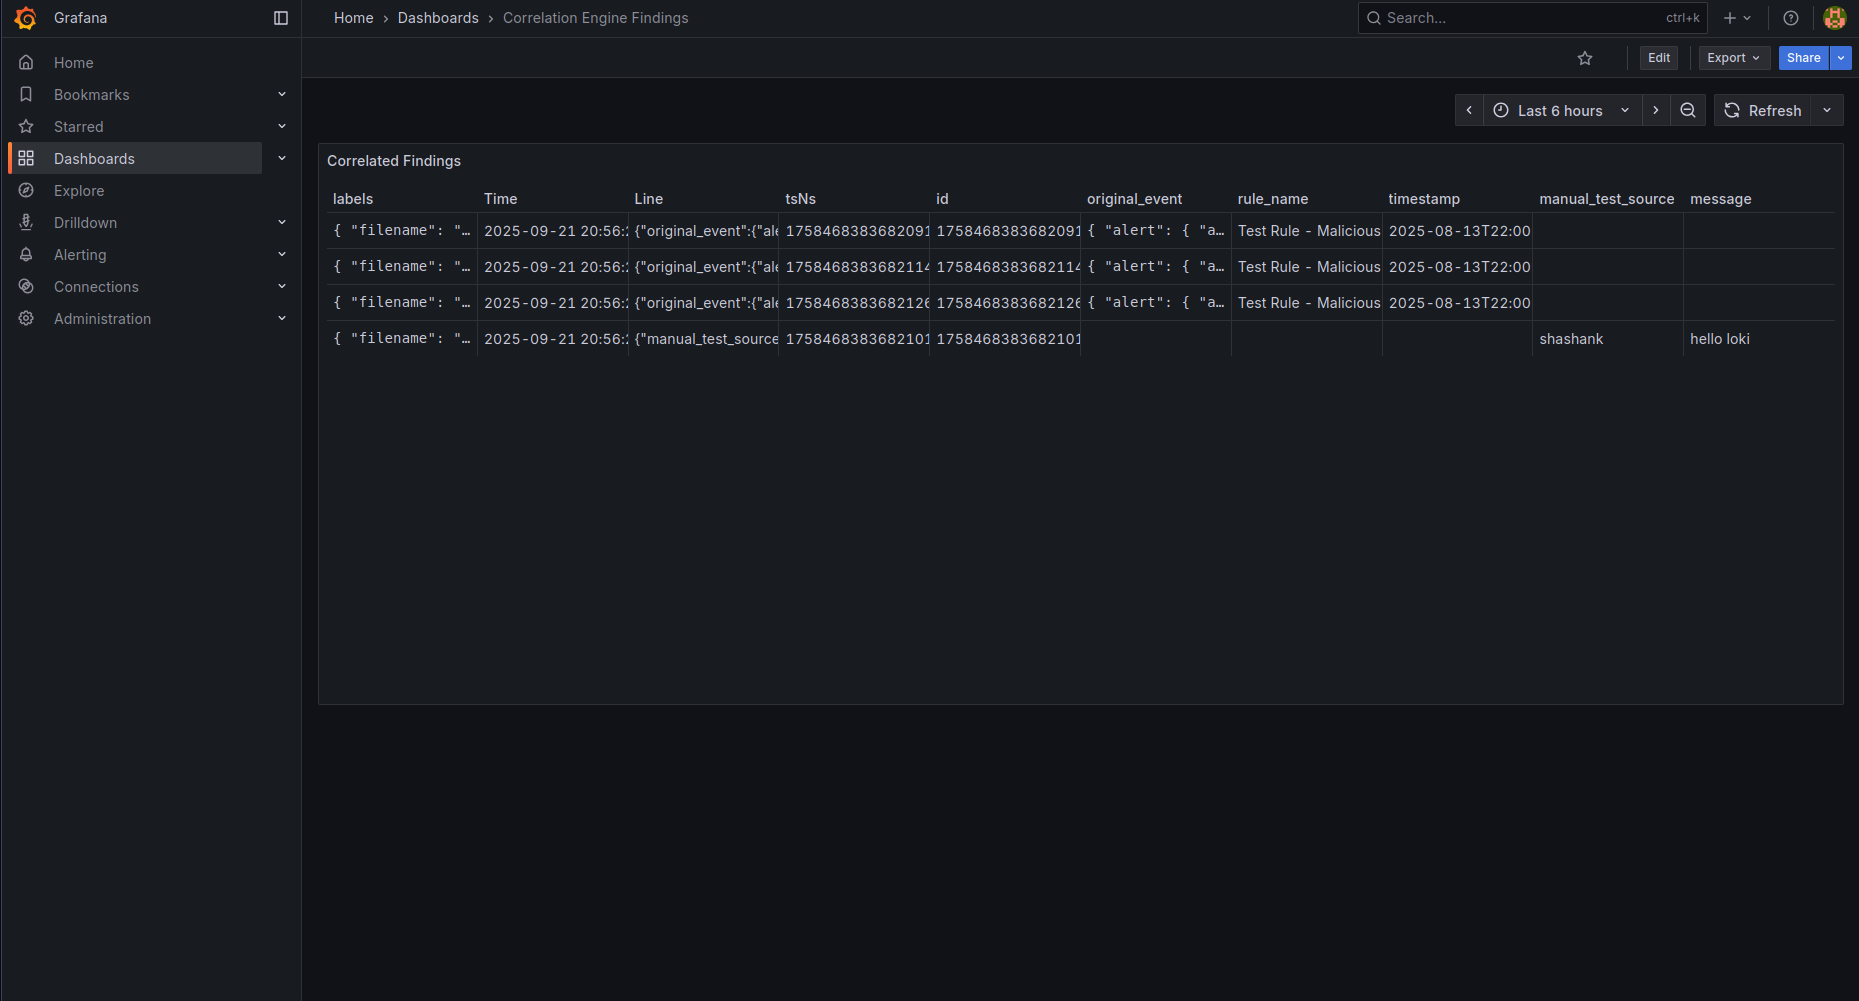
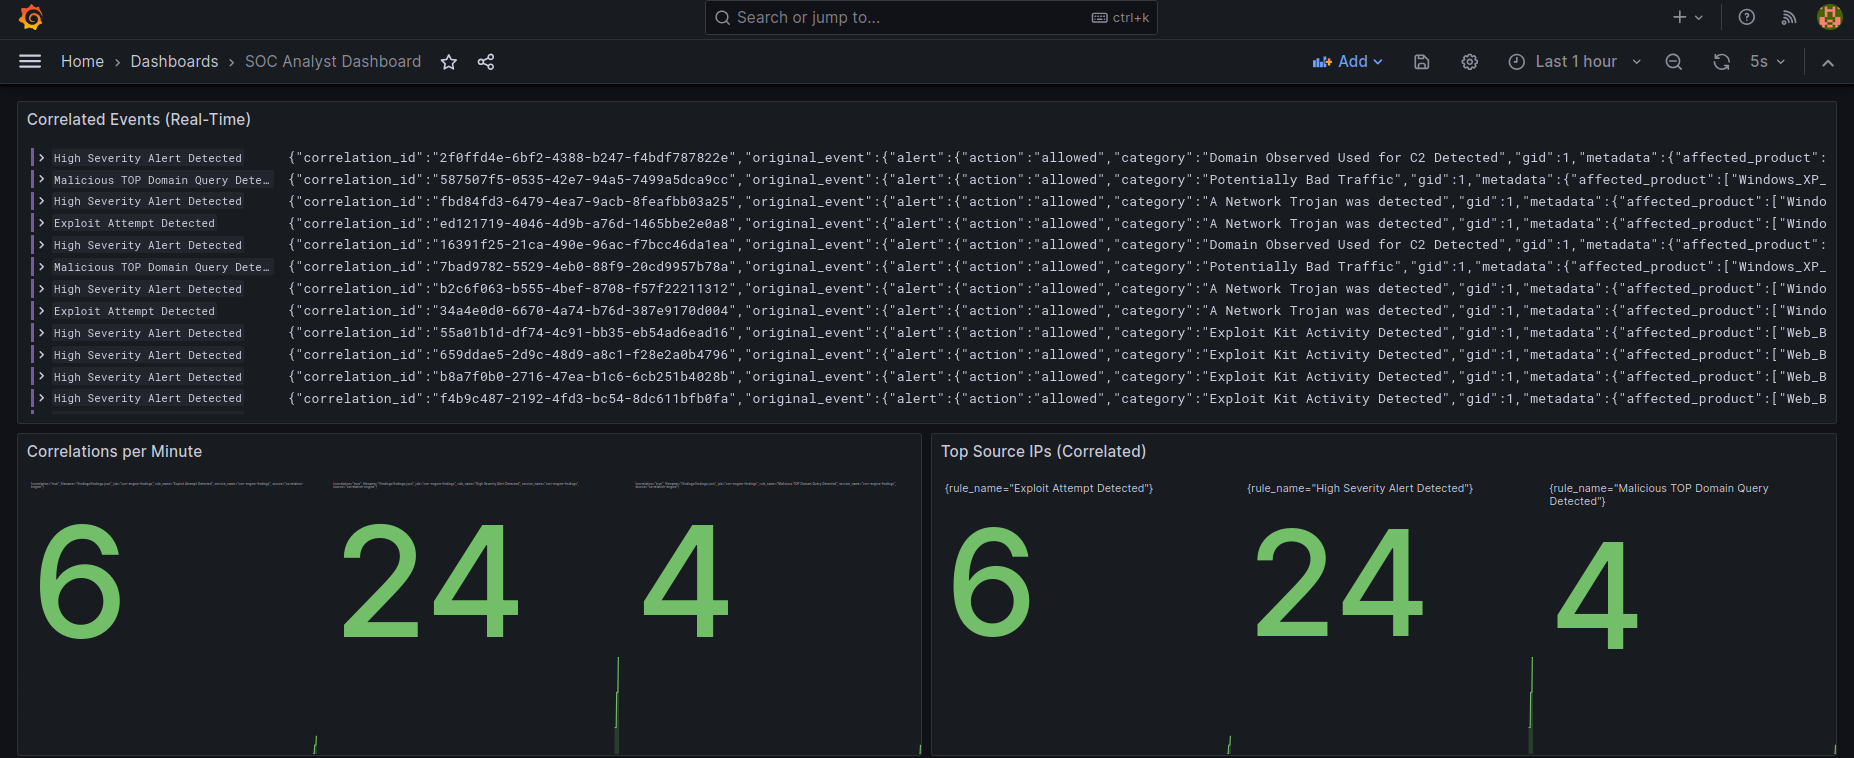
Update: Added new dashboard screenshots.

diff --git a/readme.md b/readme.md
@@ -17,11 +17,13 @@ All findings are centralized in **Grafana** via **Loki**, providing instant visi
 <details>
   <summary>Click to view dashboard screenshots</summary>
   <p align="center">
-    <em>Main Dashboard Overview</em><br>
-    <img src="screenshots/S1.png" alt="Main Dashboard">
+    <em>SOC Analyst Dashboard Overview</em><br>
+    <img src="screenshots/S1.png" alt="Default Dashboard">
     <br><br>
-    <em>Correlated Findings Timeline</em><br>
-    <img src="screenshots/S3.png" alt="Detailed Alert View">
+    <em>Execuritve Summary Dashboard</em><br>
+    <img src="screenshots/S2.png" >
+    <em>Technical Metrics Dashboard</em><br>
+    <img src="screenshots/S3.png" >
   </p>
 </details>
 
